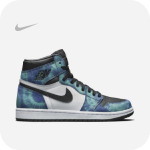
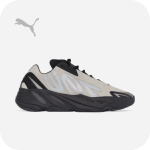
shoe list cahnged

Changed region(s): [[0.08, 0.32, 0.9067, 0.8267], [0.08, 0.1067, 0.24, 0.24], [0.24, 0.1067, 0.2667, 0.1333]]

diff --git a/lib/common/shoelist.dart b/lib/common/shoelist.dart
@@ -5,12 +5,16 @@ final List<Shoe> dummyShoes = [
     id: '1',
     name: 'Nike Air Max',
     brand: 'Nike',
-    price: 120.0,
+    price: 100.0,
     reviews: [
       Review(userId: 'zeb', comment: 'Great shoe!', rating: 5.0),
       Review(userId: 'rax', comment: 'Comfortable fit.', rating: 4),
       Review(userId: 'shady', comment: 'best shoe!', rating: 3.0),
-      Review(userId: 'rax', comment: 'Comfortable fit.', rating: 2),
+      Review(userId: 'rax', comment: 'Comfortable fit.', rating: 2.0),
+      Review(userId: 'shady', comment: 'Great shoe!', rating: 1.0),
+      Review(userId: 'rax', comment: 'Comfortable fit.', rating: 3),
+      Review(userId: 'shady', comment: 'Great shoe!', rating: 4),
+      Review(userId: 'shady', comment: 'Comfortable fit.', rating: 3),
       Review(userId: 'shady', comment: 'Great shoe!', rating: 1.0),
       Review(userId: 'rax', comment: 'Comfortable fit.', rating: 3),
       Review(userId: 'shady', comment: 'Great shoe!', rating: 4),
@@ -21,8 +25,8 @@ final List<Shoe> dummyShoes = [
   ),
   Shoe(
     id: '1',
-    name: 'Nike Air Max',
-    brand: 'Nike',
+    name: 'Jordan Air Max',
+    brand: 'Jordan',
     price: 120.0,
     reviews: [
       Review(userId: 'zeb', comment: 'Great shoe!', rating: 5.0),
@@ -36,7 +40,7 @@ final List<Shoe> dummyShoes = [
     ],
     // numberOfReviews: 25,
     // averageRating: 5.0,
-    imageUrl: 'assets/shoe1.png', averageRating: 0.0,
+    imageUrl: 'assets/shoe2.png', averageRating: 0.0,
   ),
   Shoe(
     id: '2',
@@ -52,33 +56,19 @@ final List<Shoe> dummyShoes = [
       Review(userId: 'rax', comment: 'Comfortable fit.', rating: 3.5),
       Review(userId: 'shady', comment: 'Great shoe!', rating: 4.0),
       Review(userId: 'shady', comment: 'Comfortable fit.', rating: 3.5),
-    ],
-    // numberOfReviews: 18,
-    // averageRating: 4.2,
-    imageUrl: 'assets/shoe2.png', averageRating: 0.0,
-  ),
-  Shoe(
-    id: '3',
-    name: 'Nike Air Max', brand: 'Nike',
-    price: 120.0,
-    reviews: [
-      Review(userId: 'zeb', comment: 'Great shoe!', rating: 5.0),
-      Review(userId: 'rax', comment: 'Comfortable fit.', rating: 4.5),
       Review(userId: 'shady', comment: 'best shoe!', rating: 3.0),
       Review(userId: 'rax', comment: 'Comfortable fit.', rating: 2.5),
       Review(userId: 'shady', comment: 'Great shoe!', rating: 1.0),
       Review(userId: 'rax', comment: 'Comfortable fit.', rating: 3.5),
-      Review(userId: 'shady', comment: 'Great shoe!', rating: 4.0),
-      Review(userId: 'shady', comment: 'Comfortable fit.', rating: 3.5),
     ],
-    // numberOfReviews: 25,
-    // averageRating: 3.8,
+    // numberOfReviews: 18,
+    // averageRating: 4.2,
     imageUrl: 'assets/shoe3.png', averageRating: 0.0,
   ),
   Shoe(
-    id: '4',
-    name: 'Adidas Ultraboost', brand: 'Adidas',
-    price: 150.0,
+    id: '3',
+    name: 'Reebok Air Max', brand: 'Reebok',
+    price: 200.0,
     reviews: [
       Review(userId: 'zeb', comment: 'Great shoe!', rating: 5.0),
       Review(userId: 'rax', comment: 'Comfortable fit.', rating: 4.5),
@@ -88,16 +78,40 @@ final List<Shoe> dummyShoes = [
       Review(userId: 'rax', comment: 'Comfortable fit.', rating: 3.5),
       Review(userId: 'shady', comment: 'Great shoe!', rating: 4.0),
       Review(userId: 'shady', comment: 'Comfortable fit.', rating: 3.5),
+      Review(userId: 'zeb', comment: 'Great shoe!', rating: 5.0),
+      Review(userId: 'rax', comment: 'Comfortable fit.', rating: 4.5),
+      Review(userId: 'shady', comment: 'best shoe!', rating: 3.0),
+      Review(userId: 'rax', comment: 'Comfortable fit.', rating: 2.5),
+    ],
+    // numberOfReviews: 25,
+    // averageRating: 3.8,
+    imageUrl: 'assets/shoe4.png', averageRating: 0.0,
+  ),
+  Shoe(
+    id: '4',
+    name: 'Reebok Ultraboost', brand: 'Adidas',
+    price: 110.0,
+    reviews: [
+      Review(userId: 'zeb', comment: 'Great shoe!', rating: 5.0),
+      Review(userId: 'rax', comment: 'Comfortable fit.', rating: 4.5),
+      Review(userId: 'shady', comment: 'best shoe!', rating: 3.0),
+      Review(userId: 'rax', comment: 'Comfortable fit.', rating: 2.5),
+      Review(userId: 'shady', comment: 'Great shoe!', rating: 1.0),
+      Review(userId: 'rax', comment: 'Comfortable fit.', rating: 3.5),
+      Review(userId: 'shady', comment: 'Great shoe!', rating: 4.0),
+      Review(userId: 'shady', comment: 'Comfortable fit.', rating: 3.5),
+      Review(userId: 'shady', comment: 'best shoe!', rating: 3.0),
+      Review(userId: 'rax', comment: 'Comfortable fit.', rating: 2.5),
     ],
     // numberOfReviews: 18,
     // averageRating: 4.2,
-    imageUrl: 'assets/shoe4.png', averageRating: 0.0,
+    imageUrl: 'assets/shoe5.png', averageRating: 0.0,
   ),
   Shoe(
     id: '5',
     name: 'Nike Air Max',
     brand: 'Nike',
-    price: 120.0,
+    price: 170.0,
     reviews: [
       Review(userId: 'zeb', comment: 'Great shoe!', rating: 5.0),
       Review(userId: 'rax', comment: 'Comfortable fit.', rating: 4.5),
@@ -107,34 +121,44 @@ final List<Shoe> dummyShoes = [
       Review(userId: 'rax', comment: 'Comfortable fit.', rating: 3.5),
       Review(userId: 'shady', comment: 'Great shoe!', rating: 4.0),
       Review(userId: 'shady', comment: 'Comfortable fit.', rating: 3.5),
+      Review(userId: 'shady', comment: 'Great shoe!', rating: 1.0),
+      Review(userId: 'rax', comment: 'Comfortable fit.', rating: 3.5),
+      Review(userId: 'shady', comment: 'Great shoe!', rating: 1.0),
+      Review(userId: 'rax', comment: 'Comfortable fit.', rating: 3.5),
     ],
     // numberOfReviews: 25,
     // averageRating: 4.8,
-    imageUrl: 'assets/shoe3.png', averageRating: 0.0,
+    imageUrl: 'assets/shoe1.png', averageRating: 0.0,
   ),
   Shoe(
     id: '6',
     name: 'Adidas Ultraboost',
     brand: 'Adidas',
-    price: 150.0,
+    price: 130.0,
     reviews: [
       Review(userId: 'zeb', comment: 'Great shoe!', rating: 5.0),
       Review(userId: 'rax', comment: 'Comfortable fit.', rating: 4.5),
       Review(userId: 'shady', comment: 'best shoe!', rating: 3.0),
       Review(userId: 'rax', comment: 'Comfortable fit.', rating: 2.5),
       Review(userId: 'shady', comment: 'Great shoe!', rating: 1.0),
+      Review(userId: 'rax', comment: 'Comfortable fit.', rating: 3.5),
+      Review(userId: 'shady', comment: 'Great shoe!', rating: 4.0),
+      Review(userId: 'shady', comment: 'Comfortable fit.', rating: 3.5),
+      Review(userId: 'rax', comment: 'Comfortable fit.', rating: 3.5),
+      Review(userId: 'shady', comment: 'Great shoe!', rating: 4.0),
+      Review(userId: 'shady', comment: 'Comfortable fit.', rating: 3.5),
       Review(userId: 'rax', comment: 'Comfortable fit.', rating: 3.5),
       Review(userId: 'shady', comment: 'Great shoe!', rating: 4.0),
       Review(userId: 'shady', comment: 'Comfortable fit.', rating: 3.5),
     ],
     // numberOfReviews: 18,
     // averageRating: 3.0,averageRating: 0.0,
-    imageUrl: 'assets/shoe4.png', averageRating: 0.0,
+    imageUrl: 'assets/shoe3.png', averageRating: 0.0,
   ),
   Shoe(
     id: '7',
     name: 'Nike Air Max', brand: 'Nike',
-    price: 120.0,
+    price: 230.0,
     reviews: [
       Review(userId: 'zeb', comment: 'Great shoe!', rating: 5.0),
       Review(userId: 'rax', comment: 'Comfortable fit.', rating: 4.5),
@@ -144,9 +168,13 @@ final List<Shoe> dummyShoes = [
       Review(userId: 'rax', comment: 'Comfortable fit.', rating: 3.5),
       Review(userId: 'shady', comment: 'Great shoe!', rating: 4.0),
       Review(userId: 'shady', comment: 'Comfortable fit.', rating: 3.5),
+      Review(userId: 'shady', comment: 'Great shoe!', rating: 1.0),
+      Review(userId: 'rax', comment: 'Comfortable fit.', rating: 3.5),
+      Review(userId: 'shady', comment: 'Great shoe!', rating: 1.0),
+      Review(userId: 'rax', comment: 'Comfortable fit.', rating: 3.5),
     ],
     // numberOfReviews: 25,
     averageRating: 0.0,
-    imageUrl: 'assets/shoe1.png',
+    imageUrl: 'assets/shoe4.png',
   ),
 ];

diff --git a/lib/view/screens/FilteredScreen.dart b/lib/view/screens/FilteredScreen.dart
@@ -92,7 +92,7 @@ class _FilteredProductsScreenState extends State<FilteredProductsScreen> {
                               width: 3,
                             ),
                             Text(
-                              '(${shoe.reviews.length}) Reviews)',
+                              '(${shoe.reviews.length}) Reviews',
                               style: const TextStyle(
                                   fontSize: 11.0, color: Colors.black45),
                             ),

diff --git a/lib/view/widgets/shoegrid.dart b/lib/view/widgets/shoegrid.dart
@@ -161,7 +161,7 @@ class _ShoeGridState extends State<ShoeGrid> {
                             width: 3,
                           ),
                           Text(
-                            '(${shoe.reviews.length}) Reviews)',
+                            '(${shoe.reviews.length}) Reviews',
                             style: const TextStyle(
                                 fontSize: 11.0, color: Colors.black45),
                           ),
